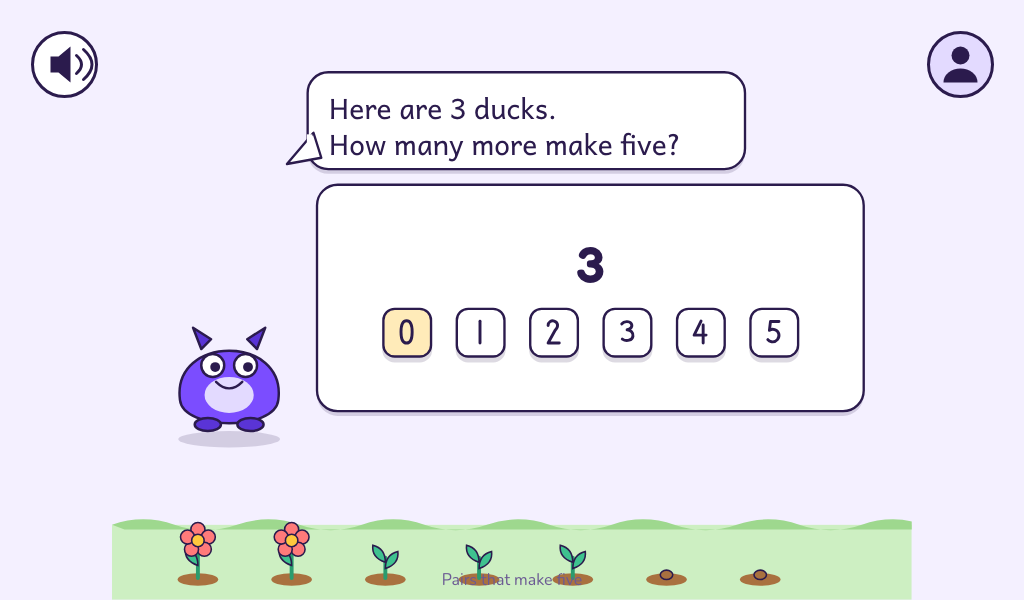
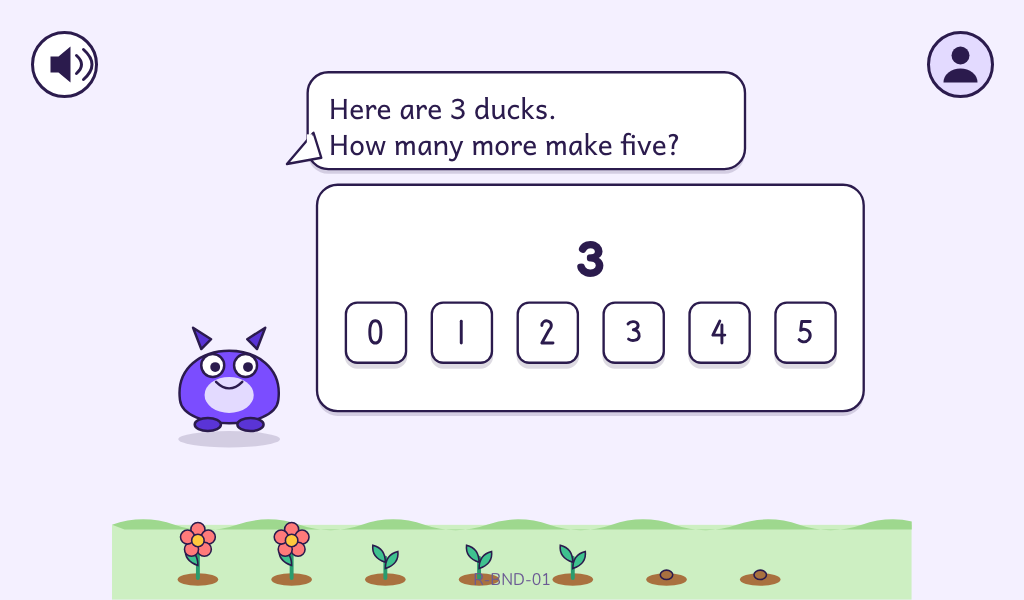
Retake, before the touch probe rather than after it
The first set showed post-press states — a ten frame emptied by the
probe under a bubble reading 'seven were in the frame'. And the numbers
beside them were measured on one skill of nineteen; they are now every
skill-band, 342 renders for the ten frame and 636 for the counters.

diff --git a/widgets/README.md b/widgets/README.md
@@ -12,23 +12,37 @@ with 16px between them, colour comes from tokens, tapping works before
 dragging, it registers on touch-down, the apparatus shows numerals
 rather than sentences, and nothing is red or a cross.
 
-| apparatus | 18 renders |
-|---|---|
-| **tenframe** | passes every clause |
-| **numberpad** (counters) | passes every clause |
-| choice | 3 misses |
-| shapes | 7 misses |
+| apparatus | renders | misses |
+|---|---|---|
+| **tenframe** | 342, every skill-band | 3, all on the one skill that asks for 50 and 100 cells |
+| **numberpad** (counters) | 636, every skill-band | 3 |
+| choice | 60 | 5 |
+| shapes | 54 | 3 |
 
 `choice` and `shapes` were run unmodified and are listed, not fixed.
 
+Two of the six misses on the rebuilt apparatus **do not close**. Fifty
+64px cells is 3,200px of cell in a 673px-wide card. A Reception
+question with three counters and an eleven-key pad wants 270px of a
+263px card. Both are decisions about the drawing, not layout bugs.
+
 ## What these pictures caught
 
-The ten frame and the counters both used to be **scaled down to fit the
+The ten frame and the counters were both **scaled down to fit the
 card** — the ten frame to 0.898 — because they claimed a box 30px
 larger than the room they were given. A 64px target is 56.5px of glass
 at that scale, so the touch floor was being lost silently to a layout
 that never fitted.
 
 Before that could even be seen, the gallery these are rendered from was
-loading none of the widgets' own stylesheets, so what earlier
+loading **none of the widgets' own stylesheets**, so what earlier
 measurements reported on was unstyled markup.
+
+And the gate that found it was itself certifying on **one skill of the
+nineteen** that use a ten frame, always at band 1 — so it had never
+seen `ceiling: 20`, which thirteen Year 1 and Year 2 skills use. It
+walks every skill and band now.
+
+Every image is taken **before** the touch probe presses anything; the
+first set showed pressed states, including a ten frame emptied by the
+probe under a bubble saying seven were in it.
